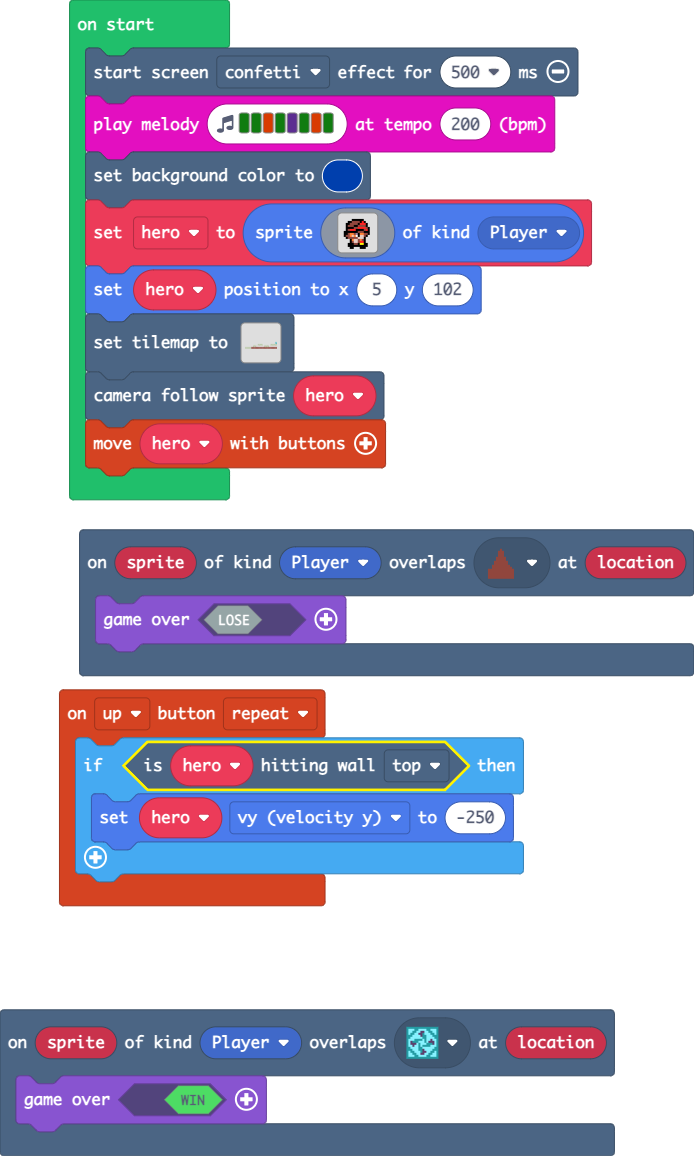
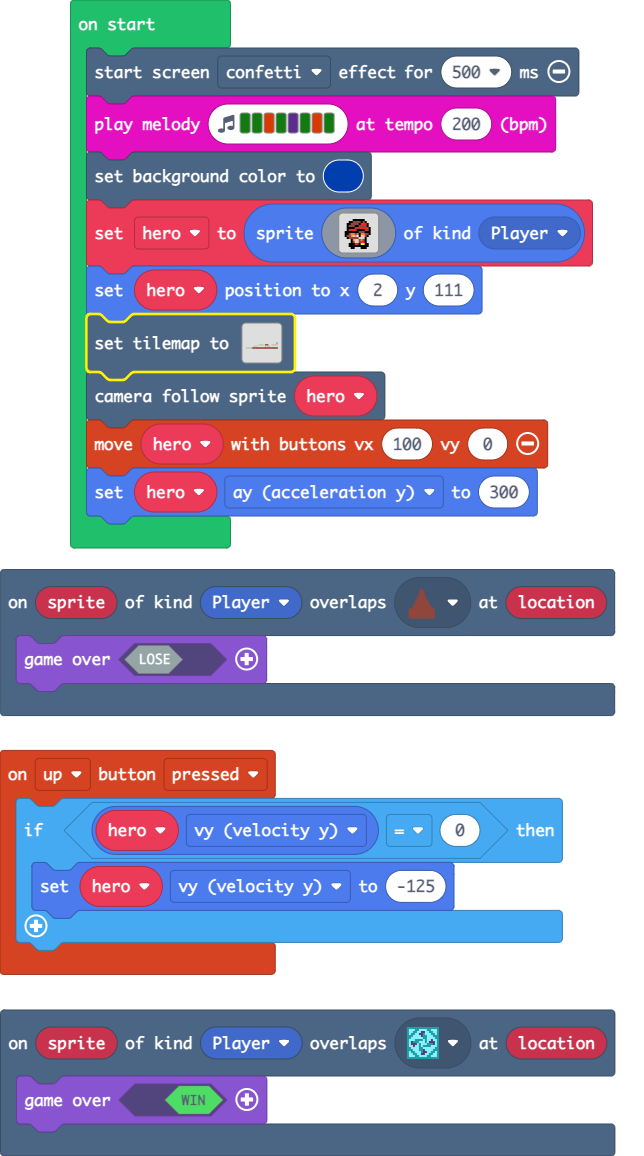
added acceleration and velocity for gravity

diff --git a/tilemap.g.ts b/tilemap.g.ts
@@ -13,5 +13,45 @@ namespace myTiles {
     //% fixedInstance jres blockIdentity=images._tile
     export const tile5 = image.ofBuffer(hex``);
 
+    helpers._registerFactory("tilemap", function(name: string) {
+        switch(helpers.stringTrim(name)) {
+            case "level1":
+            case "level1":return tiles.createTilemap(hex`1400080000000000000000000000000000000000000000000000000000000000000000000000000000000000000000000000000000000000000000000000000000000000000000000000000000000000000000000000000000000000000000000000000000000001000000000000000002020200030300000202020200000000000202000000000002020200000000000202020203030303030303030303030303030303`, img`
+. . . . . . . . . . . . . . . . . . . . 
+. . . . . . . . . . . . . . . . . . . . 
+. . . . . . . . . . . . . . . . . . . . 
+. . . . . . . . . . . . . . . . . . . . 
+. . . . . . . . . . . . . . . . . . . . 
+. . . . . . . . 2 2 2 . . . . . 2 2 2 2 
+. . . . . 2 2 . . . . . 2 2 2 . . . . . 
+2 2 2 2 . . . . . . . . . . . . . . . . 
+`, [myTiles.transparency16,sprites.dungeon.collectibleInsignia,sprites.castle.tilePath1,myTiles.tile5], TileScale.Sixteen);
+            case "level2":
+            case "level2":return tiles.createTilemap(hex`1400080000000000000000000000000000000000000000000000000000000000000000000000000000000000000000000000000000000000000000000000000000000000000000000000000000000000000000000000000000000000000000000000000000000001000000000000000002020200000000000202020200000000000202000000000002020200000000000202020203030303030303030303030303030303`, img`
+. . . . . . . . . . . . . . . . . . . . 
+. . . . . . . . . . . . . . . . . . . . 
+. . . . . . . . . . . . . . . . . . . . 
+. . . . . . . . . . . . . . . . . . . . 
+. . . . . . . . . . . . . . . . . . . . 
+. . . . . . . . 2 2 2 . . . . . 2 2 2 2 
+. . . . . 2 2 . . . . . 2 2 2 . . . . . 
+2 2 2 2 . . . . . . . . . . . . . . . . 
+`, [myTiles.transparency16,sprites.dungeon.collectibleInsignia,sprites.castle.tilePath1,myTiles.tile5], TileScale.Sixteen);
+        }
+        return null;
+    })
+
+    helpers._registerFactory("tile", function(name: string) {
+        switch(helpers.stringTrim(name)) {
+            case "transparency16":return transparency16;
+            case "tile1":return tile1;
+            case "tile2":return tile2;
+            case "tile3":return tile3;
+            case "tile4":return tile4;
+            case "tile5":return tile5;
+        }
+        return null;
+    })
+
 }
 // Auto-generated code. Do not edit.

diff --git a/main.ts b/main.ts
@@ -1,9 +1,9 @@
-controller.up.onEvent(ControllerButtonEvent.Repeated, function () {
-    if (hero.isHittingTile(CollisionDirection.Top)) {
-        hero.vy = -250
+controller.up.onEvent(ControllerButtonEvent.Pressed, function () {
+    if (hero.vy == 0) {
+        hero.vy = -125
     }
 })
-scene.onOverlapTile(SpriteKind.Player, myTiles.tile5, function (sprite, location) {
+scene.onOverlapTile(SpriteKind.Player, assets.tile`tile5`, function (sprite, location) {
     game.over(false)
 })
 scene.onOverlapTile(SpriteKind.Player, sprites.dungeon.collectibleInsignia, function (sprite, location) {
@@ -31,16 +31,8 @@ hero = sprites.create(img`
     . . . f f f f f f f f f f . . . 
     . . . . f f . . . f f f . . . . 
     `, SpriteKind.Player)
-hero.setPosition(5, 102)
-tiles.setTilemap(tiles.createTilemap(hex`1400080000000000000000000000000000000000000000000000000000000000000000000000000000000000000000000000000000000000000000000000000000000000000000000000000000000000000000000000000000000000000000000000000000000001000000000000000002020200000000000202020200000000000202000000000002020200000000000202020203030303030303030303030303030303`, img`
-    . . . . . . . . . . . . . . . . . . . . 
-    . . . . . . . . . . . . . . . . . . . . 
-    . . . . . . . . . . . . . . . . . . . . 
-    . . . . . . . . . . . . . . . . . . . . 
-    . . . . . . . . . . . . . . . . . . . . 
-    . . . . . . . . 2 2 2 . . . . . 2 2 2 2 
-    . . . . . 2 2 . . . . . 2 2 2 . . . . . 
-    2 2 2 2 . . . . . . . . . . . . . . . . 
-    `, [myTiles.transparency16,sprites.dungeon.collectibleInsignia,sprites.castle.tilePath1,myTiles.tile5], TileScale.Sixteen))
+hero.setPosition(2, 111)
+tiles.setTilemap(tilemap`level1`)
 scene.cameraFollowSprite(hero)
-controller.moveSprite(hero)
+controller.moveSprite(hero, 100, 0)
+hero.ay = 300

diff --git a/images.g.ts b/images.g.ts
@@ -1,0 +1,54 @@
+// Auto-generated code. Do not edit.
+namespace myImages {
+
+    helpers._registerFactory("image", function(name: string) {
+        switch(helpers.stringTrim(name)) {
+            case "image1":return img`
+. . . . . . . . . . . . . . . . 
+. . . . . f f f f f f . . . . . 
+. . . f f e e e e f 2 f . . . . 
+. . f f e e e e f 2 2 2 f . . . 
+. . f e e e f f e e e e f . . . 
+. . f f f f e e 2 2 2 2 e f . . 
+. . f e 2 2 2 f f f f e 2 f . . 
+. f f f f f f f e e e f f f . . 
+. f f e 4 4 e b f 4 4 e e f . . 
+. f e e 4 d 4 1 f d d e f . . . 
+. . f e e e e e d d d f . . . . 
+. . . . f 4 d d e 4 e f . . . . 
+. . . . f e d d e 2 2 f . . . . 
+. . . f f f e e f 5 5 f f . . . 
+. . . f f f f f f f f f f . . . 
+. . . . f f . . . f f f . . . . 
+`;
+            case "image2":return img`
+. . . . . . . . . . . . . . . . 
+. . . . . f f f f f f . . . . . 
+. . . f f e e e e f 2 f . . . . 
+. . f f e e e e f 2 2 2 f . . . 
+. . f e e e f f e e e e f . . . 
+. . f f f f e e 2 2 2 2 e f . . 
+. . f e 2 2 2 f f f f e 2 f . . 
+. f f f f f f f e e e f f f . . 
+. f f e 4 4 e b f 4 4 e e f . . 
+. f e e 4 d 4 1 f d d e f . . . 
+. . f e e e e e d d d f . . . . 
+. . . . f 4 d d e 4 e f . . . . 
+. . . . f e d d e 2 2 f . . . . 
+. . . f f f e e f 5 5 f f . . . 
+. . . f f f f f f f f f f . . . 
+. . . . f f . . . f f f . . . . 
+`;
+        }
+        return null;
+    })
+
+    helpers._registerFactory("animation", function(name: string) {
+        switch(helpers.stringTrim(name)) {
+
+        }
+        return null;
+    })
+
+}
+// Auto-generated code. Do not edit.
